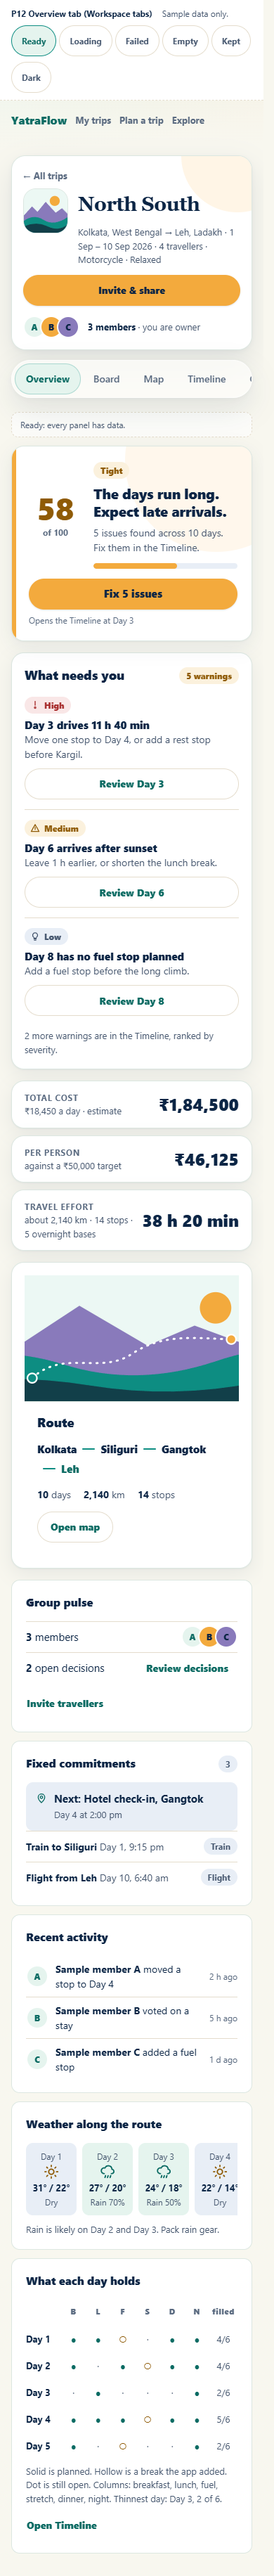
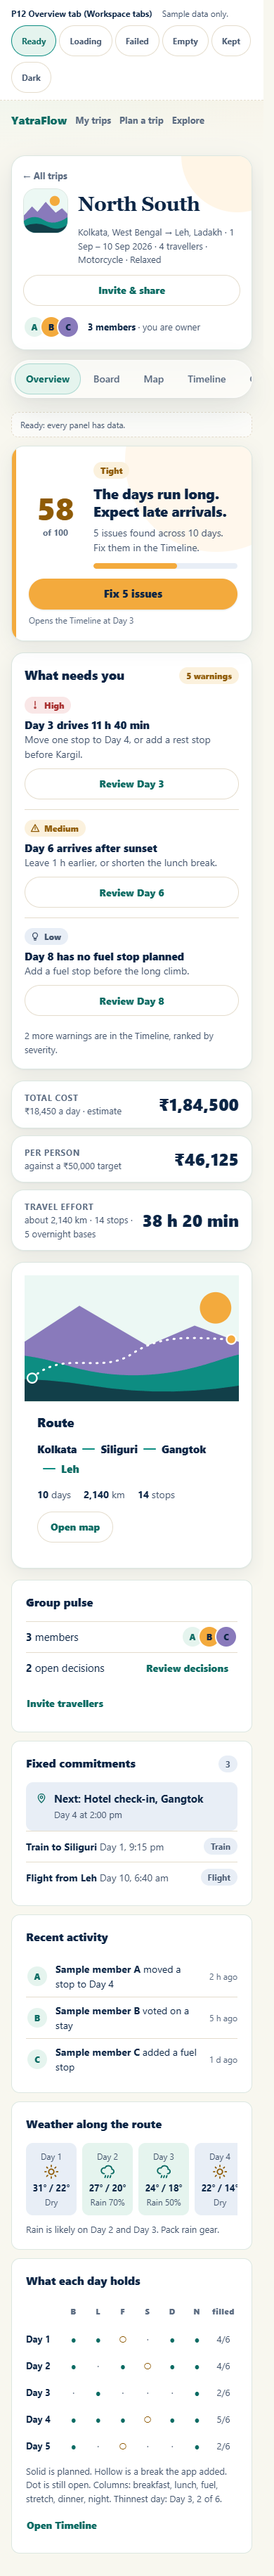
docs(mockup): quiet Invite & share header button on P12 Overview
The header Invite & share button is now an outline button. The verdict
button is the only saffron pill on the Overview.

Changed region(s): [[0.0923, 0.0933, 0.8615, 0.1245]]

diff --git a/docs/redesign/p12-overview/MOCKUP.html b/docs/redesign/p12-overview/MOCKUP.html
@@ -89,6 +89,8 @@ ul, ol { padding: 0; list-style: none; }
 .yf-btn { display: inline-flex; align-items: center; justify-content: center; gap: 8px; min-height: 44px; padding: 0 20px; border: 0; border-radius: 999px; font-weight: 800; font-size: 14px; white-space: nowrap; background: var(--btn-accent); color: var(--btn-accent-fg); box-shadow: 0 1px 2px rgba(var(--shadow-navy-rgb),.12); transition: filter var(--motion-fast) var(--ease-out), transform var(--motion-fast) var(--ease-out); }
 .yf-btn:hover { filter: brightness(1.06); transform: translateY(-1px); }
 .yf-btn:active { transform: translateY(0); }
+.yf-btn--quiet { background: transparent; color: var(--ink-teal); border: 1px solid var(--line); box-shadow: none; transition: background-color var(--motion-fast) var(--ease-out), border-color var(--motion-fast) var(--ease-out), transform var(--motion-fast) var(--ease-out); }
+.yf-btn--quiet:hover { background: var(--teal-soft); filter: none; }
 .yf-act-extra { display: none; }
 .yf-members { display: flex; flex-wrap: wrap; align-items: center; gap: 4px 12px; padding-top: 14px; }
 .yf-avatars { display: flex; align-items: center; }
@@ -318,9 +320,9 @@ ul, ol { padding: 0; list-style: none; }
         <h1 class="yf-head-title">North South</h1>
         <p class="yf-head-meta">Kolkata, West Bengal &rarr; Leh, Ladakh &middot; 1 Sep &ndash; 10 Sep 2026 &middot; 4 travellers &middot; Motorcycle &middot; Relaxed</p>
       </div>
-      <div class="yf-head-actions"><button type="button" class="yf-btn">Invite &amp; share</button></div>
+      <div class="yf-head-actions"><button type="button" class="yf-btn yf-btn--quiet">Invite &amp; share</button></div>
     </div>
-    <div class="yf-act-extra"><button type="button" class="yf-btn">Invite &amp; share</button></div>
+    <div class="yf-act-extra"><button type="button" class="yf-btn yf-btn--quiet">Invite &amp; share</button></div>
     <div class="yf-members" aria-label="Members">
       <span class="yf-avatars"><span class="avatar">A</span><span class="avatar">B</span><span class="avatar">C</span></span>
       <span class="yf-member-note"><b>3 members</b> &middot; you are owner</span>

diff --git a/docs/redesign/p12-overview/NOTES.md b/docs/redesign/p12-overview/NOTES.md
@@ -22,6 +22,7 @@ The data is sample data. The health score logic is not changed. The mockup only 
 - Serif font on the page h1 only (R14). Card titles use Plus Jakarta Sans 800 (R20).
 - Compact `StateBlock` inside cards (R22). Failed stays separate from empty (R23).
 - Buttons are pills at 44px height. The skin stays inside the page scope (R15).
+- The header "Invite & share" button is an outline button. The verdict button is the only saffron pill on the Overview.
 - Motion uses `--motion-*`, `--ease-out` and `--stagger-step`. A reduced-motion rule turns it off.
 
 ## Port map
@@ -51,6 +52,6 @@ The one inline style (health bar `width`, line 159) stays. It is a dynamic value
 
 ## Open design questions
 
-1. The verdict button and the P2 header button "Invite & share" are both saffron pills. Should the header button turn quiet on the Overview?
+1. Answered. The header button "Invite & share" is now an outline button. The verdict button is the only saffron pill.
 2. "Fix 5 issues" opens the Timeline at the first issue. Is that the right target when the first issue is on a later day?
 3. Should the day matrix stay on the Overview, or move to the Timeline?
